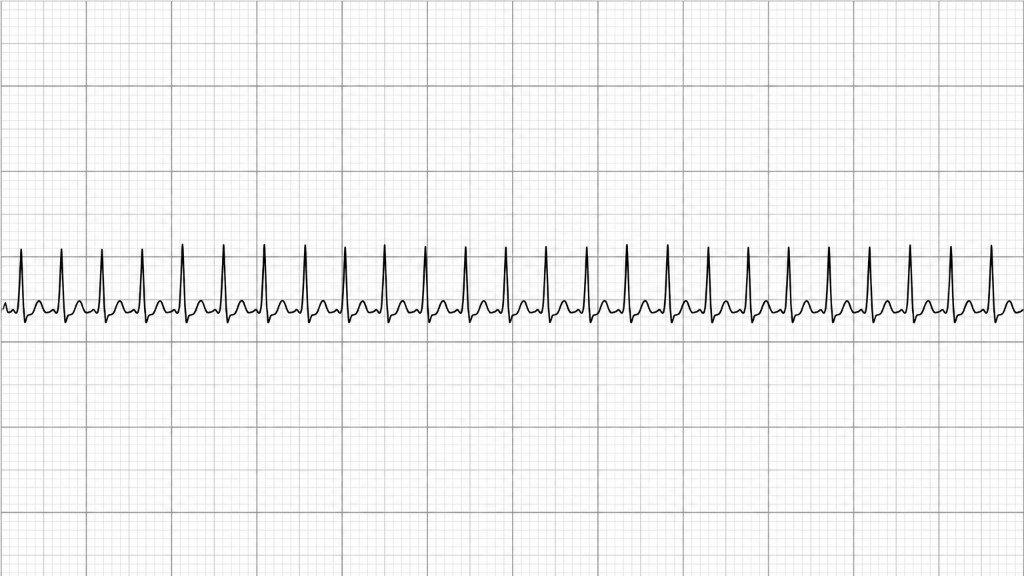
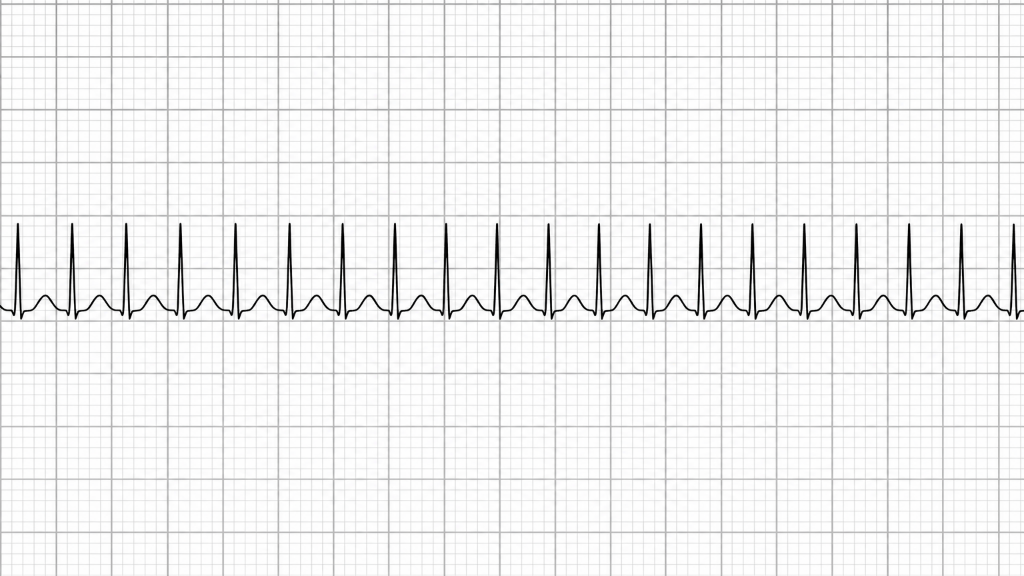
feat: support multiple ECG thumbnails; add TRNAV image above TSV in tsv_strategy

Changed region(s): [[0.0, 0.0, 1.0, 1.0]]

diff --git a/Desktop/acls_guide_backup/acls_guide/lib/ui/screens/algorithm_screen.dart b/Desktop/acls_guide_backup/acls_guide/lib/ui/screens/algorithm_screen.dart
@@ -296,8 +296,56 @@ class _AlgorithmScreenState extends ConsumerState<AlgorithmScreen> {
             const SizedBox(height: 16),
           ],
 
-          // ── ECG Image Thumbnail ────────────────────────────────
-          if (node.ecgImage != null) ...[
+          // ── ECG Image(s) Thumbnail ─────────────────────────────
+          if (node.ecgImages != null && node.ecgImages!.isNotEmpty) ...[
+            ...node.ecgImages!.asMap().entries.map((entry) {
+              final idx = entry.key;
+              final img = entry.value;
+              return Padding(
+                padding: EdgeInsets.only(bottom: idx < node.ecgImages!.length - 1 ? 8 : 16),
+                child: GestureDetector(
+                  onTap: () => _showEcgFullscreen(context, img),
+                  child: Container(
+                    width: double.infinity,
+                    height: 86,
+                    decoration: BoxDecoration(
+                      color: Colors.white,
+                      borderRadius: BorderRadius.circular(12),
+                      border: Border.all(color: AppColors.border),
+                      boxShadow: [
+                        BoxShadow(
+                          color: Colors.black.withValues(alpha: 0.04),
+                          blurRadius: 4,
+                          offset: const Offset(0, 2),
+                        ),
+                      ],
+                    ),
+                    child: ClipRRect(
+                      borderRadius: BorderRadius.circular(11),
+                      child: Stack(
+                        fit: StackFit.expand,
+                        children: [
+                          Image.asset(img, fit: BoxFit.cover, alignment: Alignment.center),
+                          Positioned(
+                            right: 8,
+                            bottom: 8,
+                            child: Container(
+                              padding: const EdgeInsets.all(4),
+                              decoration: BoxDecoration(
+                                color: Colors.black.withValues(alpha: 0.5),
+                                shape: BoxShape.circle,
+                              ),
+                              child: const Icon(Icons.zoom_in, color: Colors.white, size: 16),
+                            ),
+                          ),
+                        ],
+                      ),
+                    ),
+                  ).animate().fadeIn(delay: Duration(milliseconds: 200 + idx * 80), duration: 400.ms),
+                ),
+              );
+            }),
+          ] else if (node.ecgImage != null) ...[
             GestureDetector(
               onTap: () => _showEcgFullscreen(context, node.ecgImage!),
               child: Container(

diff --git a/Desktop/acls_guide_backup/acls_guide/lib/models/algorithm_node.dart b/Desktop/acls_guide_backup/acls_guide/lib/models/algorithm_node.dart
@@ -37,6 +37,8 @@ class AlgorithmNode {
   final String? alertLevel;       // 'danger' | 'warning' | 'info' | 'success'
   final List<String>? bullets;    // Lista de pontos de ação
   final bool isShockNode;
+  final String? ecgImage;         // Imagem única de ECG
+  final List<String>? ecgImages;  // Múltiplas imagens de ECG (exibidas em coluna)
 
   const AlgorithmNode({
     required this.id,
@@ -51,6 +53,8 @@ class AlgorithmNode {
     this.alertLevel,
     this.bullets,
     this.isShockNode = false,
+    this.ecgImage,
+    this.ecgImages,
   });
 }
 

diff --git a/Desktop/acls_guide_backup/acls_guide/lib/data/algorithms.dart b/Desktop/acls_guide_backup/acls_guide/lib/data/algorithms.dart
@@ -1396,7 +1396,7 @@ final tachycardiaAlgorithm = Algorithm(
       type: NodeType.question,
       title: 'TSV — Estratégia de Tratamento',
       subtitle: 'Manobra Vagal → Adenosina → Cardioversão',
-      ecgImage: 'assets/ecg/tsv.png',
+      ecgImages: ['assets/ecg/trnav.png', 'assets/ecg/tsv.png'],
       options: [
         AlgorithmOption(
           label: '🤸 Manobra Vagal primeiro',
